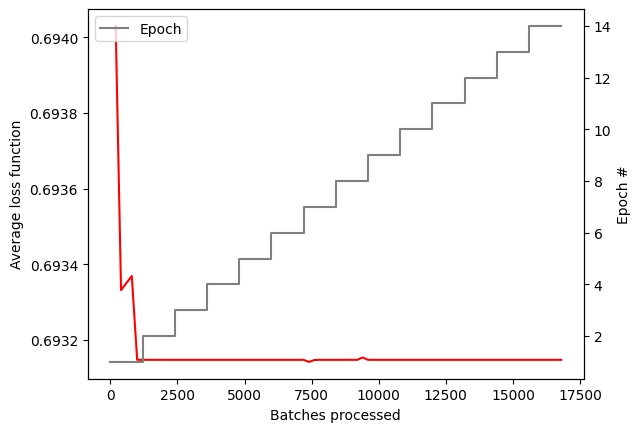
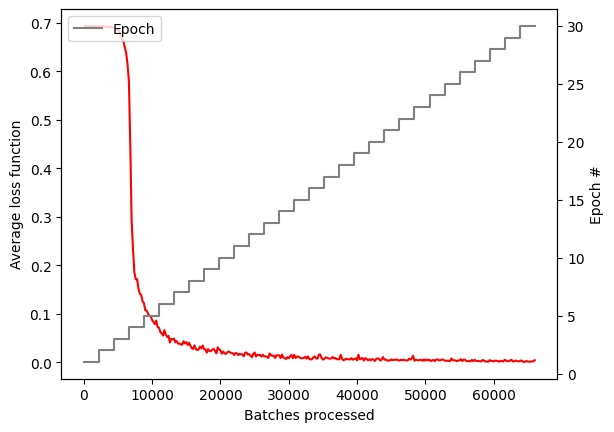
Weight decay

diff --git a/load_data.py b/load_data.py
@@ -25,7 +25,7 @@ def test_after_epoch(index):
     print('Accuracy of the network on the 10000 test images: %d %%' % (
             100 * correct / total))
 
-train_dir = './01small'
+train_dir = './03medium'
 test_dir = './test_images'
 
 transform = transforms.Compose(
@@ -57,7 +57,7 @@ net = Net()
 
 # for epoch in range(1, n_epochs+1):
 criterion = nn.CrossEntropyLoss()
-optimizer = optim.SGD(net.parameters(), lr=0.001, momentum=0.9, weight_decay=0.0001)
+optimizer = optim.SGD(net.parameters(), lr=0.001, momentum=0.9)
 """, weight_decay=0.0001"""
 
 #Visual variables
@@ -73,11 +73,12 @@ overfit_index = []
 overfit_array = []
 epoch_count = 0
 
-for epoch in range(14):  # loop over the dataset multiple times
+for epoch in range(30):  # loop over the dataset multiple times
     print("epoch: " + str(epoch))
     running_loss = 0.0
     varEnum = enumerate(train_loader)
-    test_after_epoch(epoch)
+    if epoch > 0:
+        test_after_epoch(epoch)
     for i, data in enumerate(train_loader):
         # get the inputs; data is a list of [inputs, labels]
         inputs, labels = data
